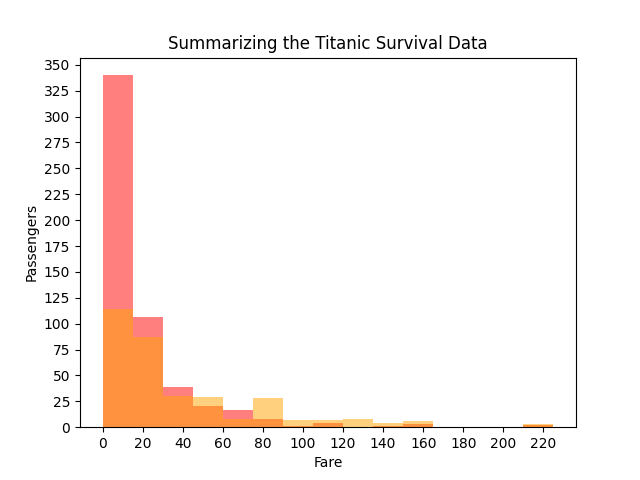
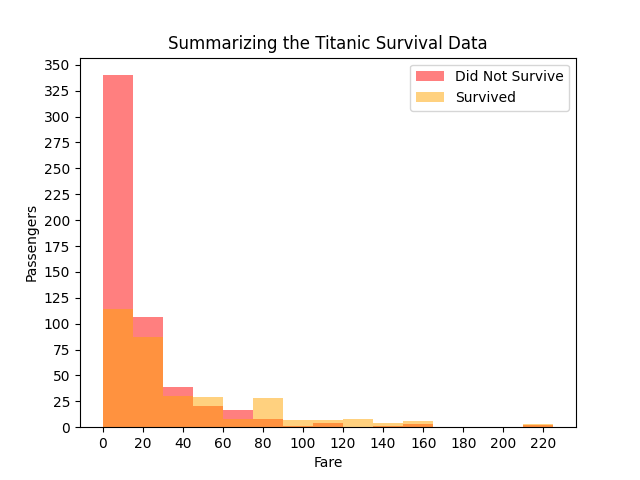
Add legend key

Changed region(s): [[0.625, 0.125, 0.875, 0.2188]]

diff --git a/determining-probability/main.py b/determining-probability/main.py
@@ -42,4 +42,8 @@ plt.xlabel("Fare")
 plt.ylabel("Passengers")
 
 plt.title("Summarizing the Titanic Survival Data")
+# Add a legend - color guide
+plt.gca().legend(("Did Not Survive", "Survived"))
+
 plt.savefig("determining_probability.png")
+
